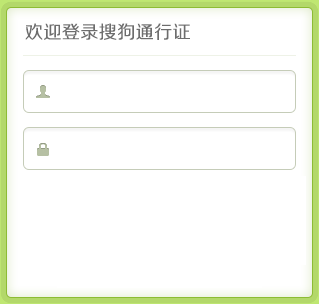
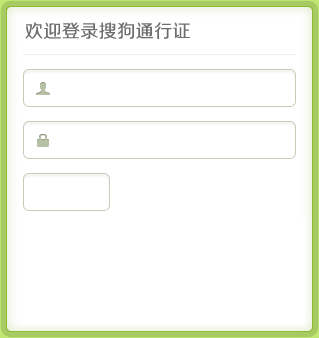
build project by zhengxin

diff --git a/passport-main-web/src/main/webapp/static/js/reg.js b/passport-main-web/src/main/webapp/static/js/reg.js
@@ -42,6 +42,16 @@ define('utils',[], function(){
             return s4() + s4()  + s4()  + s4()  +
                 s4() +  s4() + s4() + s4();
 
+        },
+        parseResponse: function(data){
+            if( typeof data == 'string' ){
+                try{
+                    data = eval('('+data+')');
+                }catch(e){
+                    data = {status:-1,statusText:'服务器故障'};
+                }
+            }
+            return data;
         }
     };
 
@@ -714,13 +724,7 @@ define('form',['./utils','./uuibase' , './uuiForm'] , function(utils){
         $.get('/web/account/checkusername' , {
             username: ipt.val()
         } , function(data){
-            if( typeof data == 'string' ){
-                try{
-                    data = eval('('+data+')');
-                }catch(e){
-                    data = {status:-1,statusText:'服务器故障'};
-                }
-            }
+            data = utils.parseResponse(data);
             if( !+data.status ){//success
                 cb && cb(0);
             }else{
@@ -831,7 +835,8 @@ define('reg',['./common','./form' , './conf'] , function(common , form , conf){
         var tm,
             text = '秒后重新获取验证码',
             oldText,
-            timeout = 60,
+            oldtimeout = 60,
+            timeout = oldtimeout,
             status;
         $('.tel-valid-btn').click(function(){
             if(status)return;
@@ -849,6 +854,7 @@ define('reg',['./common','./form' , './conf'] , function(common , form , conf){
             var el = $(this);
             oldText = el.html();
             el.html(timeout + text);
+            el.addClass('tel-valid-btn-disable');
             
             $.get('/mobile/sendsms' , {
                 mobile: usernameIpt.val(),
@@ -862,7 +868,8 @@ define('reg',['./common','./form' , './conf'] , function(common , form , conf){
                     el.html(oldText);
                     clearInterval(tm);
                     status = false;
-                    timeout = 3;
+                    timeout = oldtimeout;
+                    el.removeClass('tel-valid-btn-disable');
                 }else{
                     el.html(timeout + text);
 

diff --git a/passport-main-web/src/main/webapp/static/css/index.css b/passport-main-web/src/main/webapp/static/css/index.css
@@ -63,15 +63,23 @@ body{ background:#f9f9f9; }
 .wrapper .desc{ padding-top:30px; }
 
 
-.login{ position:absolute; right:40px;top:30px;width:319px;height:304px; background:url(/./static/img/index/login.png?t=903686) }
+.login{ position:absolute; right:40px;top:30px;width:319px;height:289px; background:url(/./static/img/index/login.png?t=050313) no-repeat bottom center; }
+.login-inner{ height:167px;background:url(/./static/img/index/login.png?t=050313) no-repeat top center; }
+.login-vcode{ height:338px; }
 .login a{color:#1777d1;}
 .login h2{ display:none; }
-.login form{ position:relative;top:75px; }
-.login input{ border:1px #fff solid; width:230px; height:30px;outline:none;font-size:14px;line-height:30px\9; }
+.login form{ position:relative;top:74px; }
+.login input{ border:1px #fff solid; width:230px; height:26px;outline:none;font-size:14px;line-height:30px\9; }
 .login .password, .login .username{ padding-left:59px; }
-.login .password{ padding-top:23px; *padding-top:20px;}
+.login .password{ padding-top:22px; *padding-top:19px;}
+.login .vcode { display:none; }
+.login-vcode .vcode{display:block;padding-top:17px;padding-left:30px; }
+.login .vcode *{ vertical-align:top; }
+.login .vcode input{width:67px;text-align:center;position:relative;top:5px;}
+.login .vcode img{ width:81px; height:38px;position:relative;  margin-left:16px; }
+.login .vcode a{ color:#333; font-size:12px;position:relative; top:12px; left:6px; }
 .login button{ height:43px; width:273px;border:none;background:none;padding:0;margin:0;position:relative;left:24px; } 
-.login .func{line-height:38px;padding:5px 0 0 25px; position:relative;color:#999;font-size:12px;}
+.login .func{line-height:34px;padding:5px 0 0 25px; position:relative;color:#999;font-size:12px;}
 .login .func input{width:auto;height:auto;width:1px;height:1px;position:absolute;left:-3000px;}
 .login .checkbox{ display:inline-block; *display:inline;*zoom:1; width:14px; height:14px;background:url(/./static/img/checkbox.png?t=582595) no-repeat 0 -14px; position:relative; top:3px; *top:0;margin-right:2px; }
 .login .checkbox-checked{ background-position:0 0; }

diff --git a/passport-main-web/src/main/webapp/static/js/index.js b/passport-main-web/src/main/webapp/static/js/index.js
@@ -1,5 +1,23 @@
 define('index' , ['./ui' , './utils'] , function(ui , utils){
     
+    var vcodeInited = false;
+    var initVcode = function(){
+        if( vcodeInited ) return;
+        vcodeInited = true;
+        var $el = $('#Login');
+        $el.parent().parent().addClass('login-vcode');
+
+        $el.find('.vcode img,.vcode a').click(function(){
+            refreshVcode();
+            return false;
+        });
+
+        refreshVcode($el);
+    };
+
+    var refreshVcode = function(){
+        $('#Login').find('.vcode img').attr('src' , "/captcha?token="+ $('#Login').find('.token').val() + '&t=' + +new Date() );
+    };
 
     return {
         init: function(){
@@ -8,7 +26,14 @@ define('index' , ['./ui' , './utils'] , function(ui , utils){
 
             $('#Login').on('submit' , function(){
                 $.post($(this).attr('action'), $(this).serialize() , function(data){
-                    alert($.toJSON(data));
+                    data = utils.parseResponse(data);
+
+                    if( !data.status ){
+                        alert('登录成功');
+                        data.ru && (window.location.href = data.ru);
+                    }else if( data.needCaptcha ){
+                        initVcode();
+                    }
                 });
                 
                 return false;

diff --git a/passport-main-web/src/main/webapp/static/css/main.css b/passport-main-web/src/main/webapp/static/css/main.css
@@ -124,7 +124,8 @@ a.medium-btn{ width:83px; height:27px; background:url(/./static/img/btn-medium.p
 .two-col-r .col-r .reg-email{padding:14px 12px 20px;}
 .reg-email .step{ border-bottom:1px #f3f3f3 solid;padding-bottom:20px; }
 .reg-email .form{ padding-top:14px; }
-.tel-valid-btn{ display:block;width:182px;height:28px;line-height:28px;font-weight:700;color:#666;background:url(/./static/img/tel-valid-btn.png?t=685508) no-repeat 0 0;text-align:center;cursor:pointer; }
+.tel-valid-btn{ display:block;width:182px;height:28px;line-height:28px;font-weight:700;color:#666;background:url(/./static/img/tel-valid-btn.png?t=311781) no-repeat 0 0;text-align:center;cursor:pointer; }
+.tel-valid-btn-disable{ background-position:0 -32px; cursor:default; }
 .tel-valid-hr{display:block; width:182px;height:0px;overflow:hidden;border-top:1px #eaeaea dashed;position:relative;top:10px; }
 .safe-index .level{ padding:18px 0 18px 80px; font-size:16px;color:#588700; background:url(/./static/img/star.png?t=011262) no-repeat 55px center; }
 .safe-index .level-status,

diff --git a/passport-main-web/src/main/webapp/static/css/reg.css b/passport-main-web/src/main/webapp/static/css/reg.css
@@ -1,5 +1,6 @@
 .two-col-r .col-r .reg-email{padding:14px 12px 20px;}
 .reg-email .step{ border-bottom:1px #f3f3f3 solid;padding-bottom:20px; }
 .reg-email .form{ padding-top:14px; }
-.tel-valid-btn{ display:block;width:182px;height:28px;line-height:28px;font-weight:700;color:#666;background:url(/./static/img/tel-valid-btn.png?t=685508) no-repeat 0 0;text-align:center;cursor:pointer; }
+.tel-valid-btn{ display:block;width:182px;height:28px;line-height:28px;font-weight:700;color:#666;background:url(/./static/img/tel-valid-btn.png?t=311781) no-repeat 0 0;text-align:center;cursor:pointer; }
+.tel-valid-btn-disable{ background-position:0 -32px; cursor:default; }
 .tel-valid-hr{display:block; width:182px;height:0px;overflow:hidden;border-top:1px #eaeaea dashed;position:relative;top:10px; }

diff --git a/passport-main-web/src/main/webapp/static/js/form.js b/passport-main-web/src/main/webapp/static/js/form.js
@@ -91,13 +91,7 @@ define(['./utils','./uuibase' , './uuiForm'] , function(utils){
         $.get('/web/account/checkusername' , {
             username: ipt.val()
         } , function(data){
-            if( typeof data == 'string' ){
-                try{
-                    data = eval('('+data+')');
-                }catch(e){
-                    data = {status:-1,statusText:'服务器故障'};
-                }
-            }
+            data = utils.parseResponse(data);
             if( !+data.status ){//success
                 cb && cb(0);
             }else{

diff --git a/passport-main-web/src/main/webapp/static/js/utils.js b/passport-main-web/src/main/webapp/static/js/utils.js
@@ -19,6 +19,16 @@ define( function(){
             return s4() + s4()  + s4()  + s4()  +
                 s4() +  s4() + s4() + s4();
 
+        },
+        parseResponse: function(data){
+            if( typeof data == 'string' ){
+                try{
+                    data = eval('('+data+')');
+                }catch(e){
+                    data = {status:-1,statusText:'服务器故障'};
+                }
+            }
+            return data;
         }
     };
 
